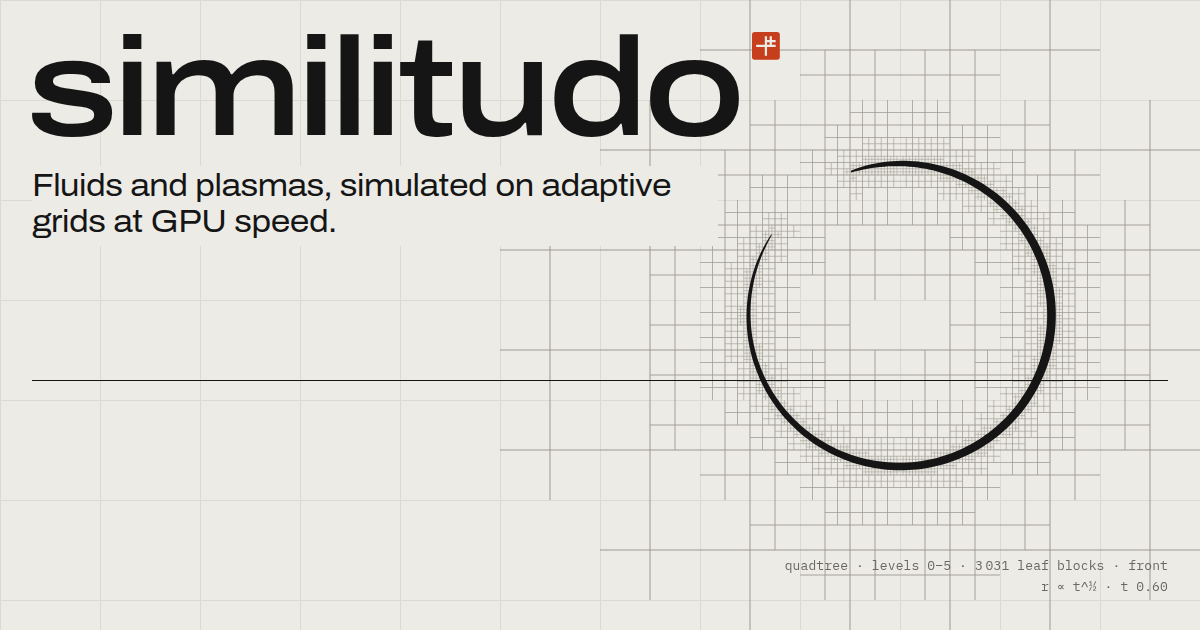
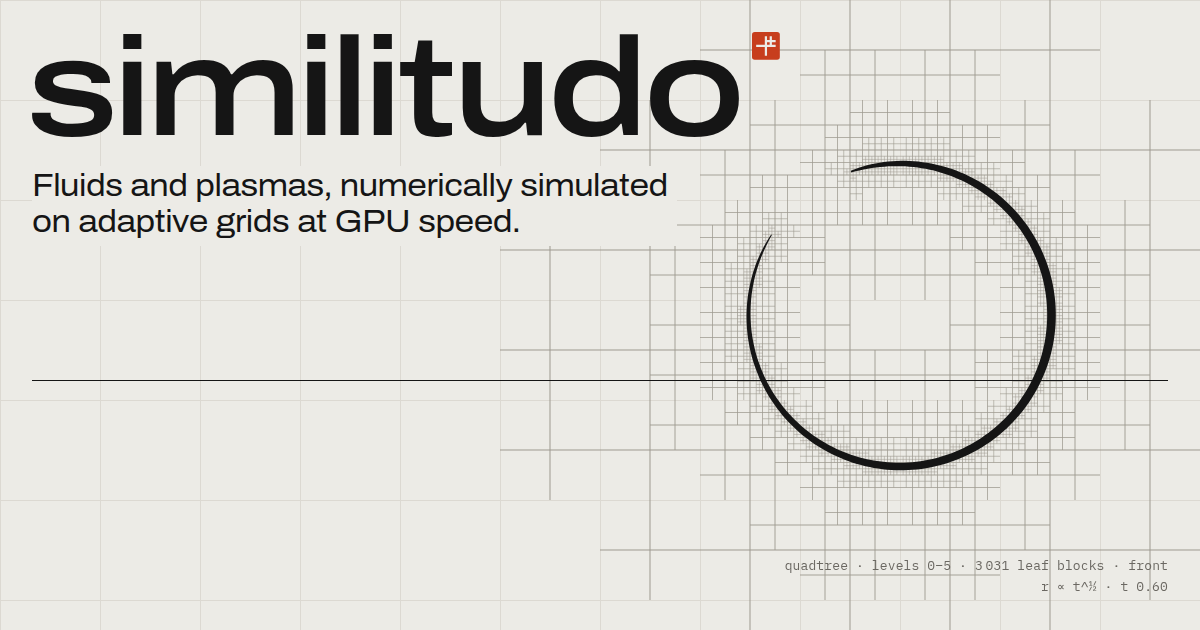
feat: rephrase the hero headline over two lines
The headline now reads "Fluids and plasmas, numerically simulated /
  on adaptive grids at GPU speed.", with the break before "on adaptive
  grids" as part of the composition.

  - `lead` becomes two lines; the hero renders each as its own block
    from 768 px up.
  - On phones the first line cannot fit at headline size; a forced
    break would leave "simulated" alone on its own line, so the
    sentence wraps naturally there.
  - public/og.png is regenerated with the new headline.

Changed region(s): [[0.0308, 0.2714, 0.555, 0.3921]]

diff --git a/src/lib/site.ts b/src/lib/site.ts
@@ -13,7 +13,8 @@ export const email = 'contact@similitudo.eu';
 // Hero headline. Alternatives considered (2026-11-09): "Simulation software for fluids and plasmas, from the laptop to
 // the GPU cluster." · "Adaptive grids. GPU speed. Research-grade simulation." · "High-order schemes on adaptive grids,
 // built for GPUs and for research." · "We turn the equations of fluids and plasmas into fast, scalable simulations."
-export const lead = 'Fluids and plasmas, simulated on adaptive grids at GPU speed.';
+// Two lines on purpose: the break before "on adaptive grids" is part of the headline (2026-11-10).
+export const lead = ['Fluids and plasmas, numerically simulated', 'on adaptive grids at GPU speed.'];
 
 /** Meta description: the longer, plain statement of what the site is about. */
 export const description =
